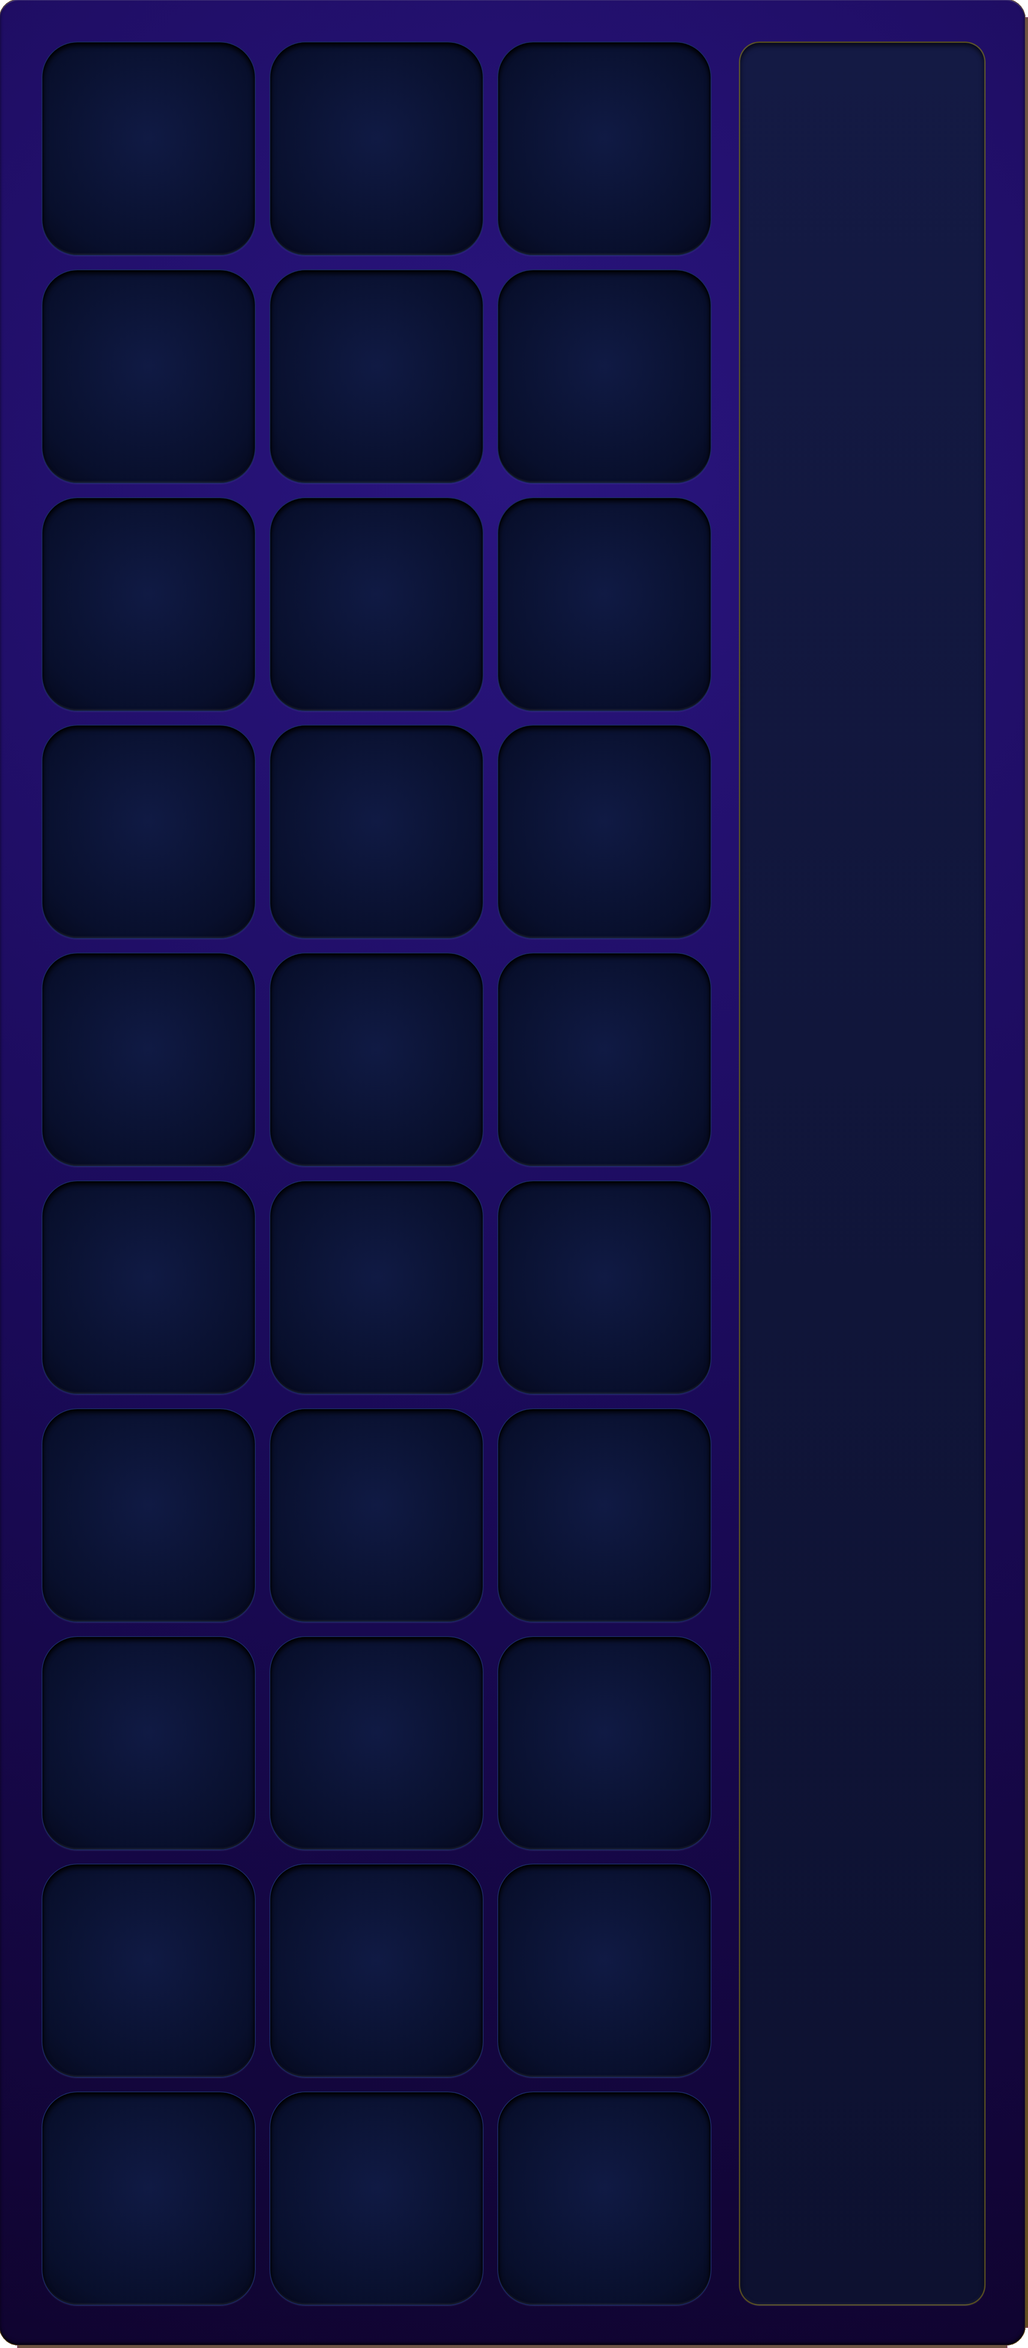
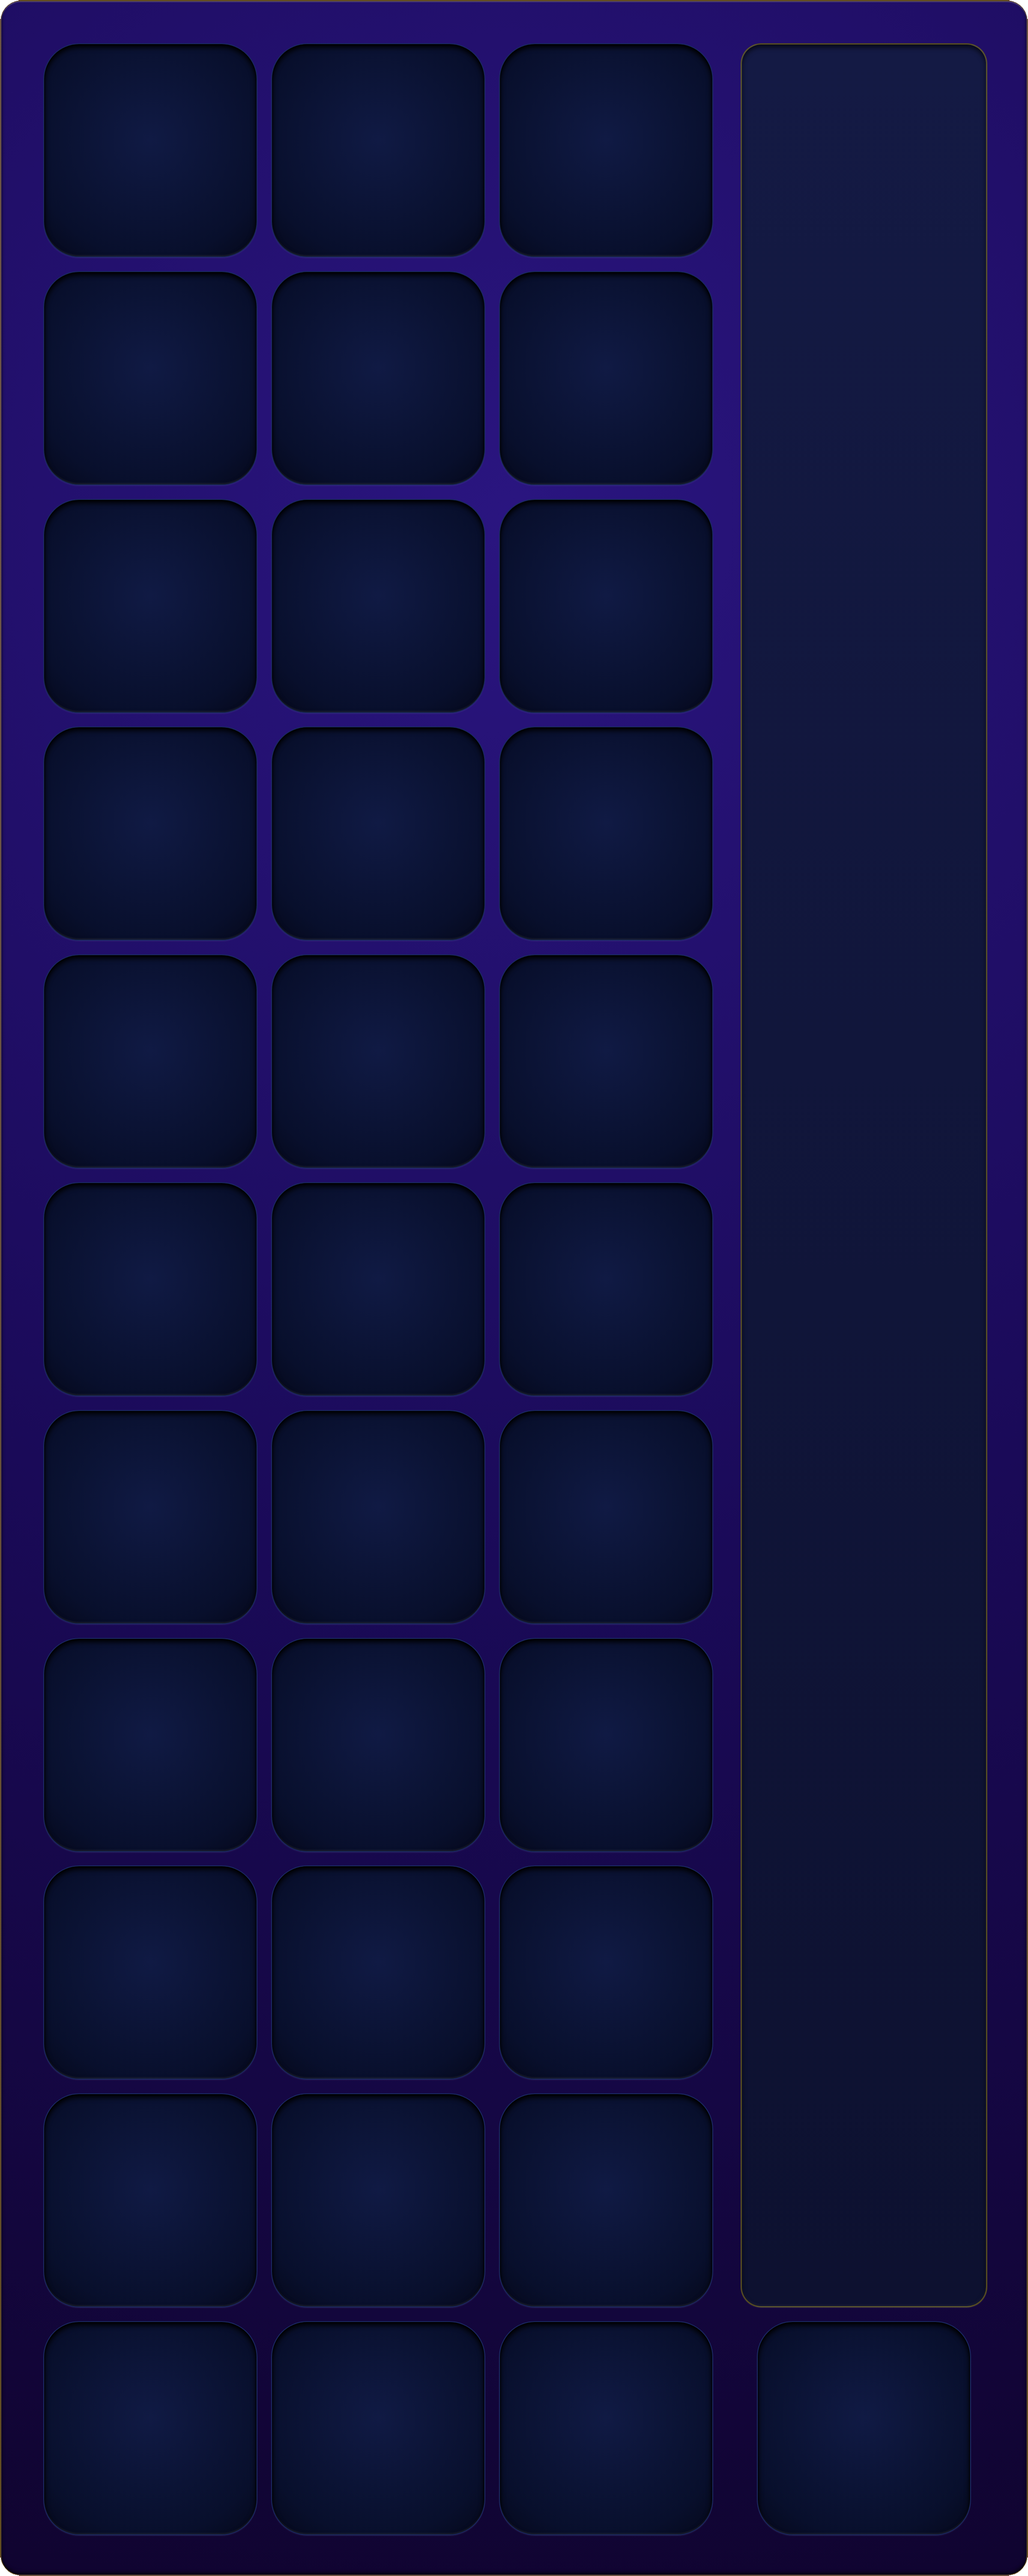
Fold the deal tray into the board's bottom row
The separate tray panel is gone; the board artwork gains an 11th row of
four dice wells — three under the guess columns plus a fourth centered
under the peg track, where the enter key sits on guess rows. TrayRow
becomes DiceRow: the four Slot.Tray cells render inside the board Box
with identical interactions, tags, and the die-covering 0.87x cell.
deal_tray.png deleted; board art is now 2400x6014 (resource 1440x3608).

Generated with [Devin](https://devin.ai)

diff --git a/shared/src/commonMain/kotlin/com/masterdice/ui/GameScreen.kt b/shared/src/commonMain/kotlin/com/masterdice/ui/GameScreen.kt
@@ -81,7 +81,6 @@ import com.masterdice.platform.SoundFx
 import com.masterdice.platform.debugToolsEnabled
 import com.masterdice.resources.Res
 import com.masterdice.resources.board_4x10
-import com.masterdice.resources.deal_tray
 import com.masterdice.resources.enter_key
 import com.masterdice.resources.pointing_hand
 import androidx.compose.ui.layout.ContentScale
@@ -91,22 +90,21 @@ import kotlin.math.roundToInt
 
 private val WellShape = RoundedCornerShape(10.dp)
 
-// board_4x10.png geometry (pixels of the 2400x5482 source artwork; the
-// bundled resource is a 0.6x downscale — identical fractions): square wells
-// on a uniform grid — 3 guess columns plus a continuous recessed peg track.
-private const val BOARD_ASPECT = 5482f / 2400f
+// board_4x10.png geometry (pixels of the 2400x6014 source artwork; the
+// bundled resource is a 0.6x downscale — identical fractions): 10 rows of
+// 3 square wells plus a continuous recessed peg track, then a bottom row
+// of 4 dice wells — the last centered under the track.
+private const val BOARD_ASPECT = 6014f / 2400f
 private const val BOARD_WELL_PX = 500f
 private val BOARD_COLS_PX = floatArrayOf(98f, 630f, 1162f)
 private const val BOARD_TRACK_CX_PX = 2014f
 private const val BOARD_ROW_TOP_PX = 98f
 private const val BOARD_ROW_PITCH_PX = 531.8f
 
-// deal_tray.png is 2400x696 — a board-width strip of four wells at the
-// grid's pitch, centered; rendered at boardW, its wells land on exactly
-// the same grid as the board's.
-private const val TRAY_ASPECT = 696f / 2400f
-private val TRAY_COLS_PX = floatArrayOf(152f, 684f, 1216f, 1748f)
-private const val TRAY_ROW_TOP_PX = 98f
+// Bottom dice row: wells under the guess columns plus one centered on the
+// track (2014 - 500/2); top at 98 + 10 pitches.
+private const val BOARD_DICE_ROW_TOP_PX = 5416f
+private const val BOARD_DICE_COL4_PX = 1764f
 
 @Composable
 fun GameScreen(
@@ -163,17 +161,17 @@ fun GameScreen(
     ) {
         val maxBoardWidth = if (maxWidth > 480.dp) 480.dp else maxWidth
         val gap = 6.dp
-        // Board and tray are fixed-aspect artworks scaled from boardW; its
-        // width is bound by whichever is tighter — the column width, or the
-        // height budget once the header and spacers are paid for.
+        // The board is a fixed-aspect artwork scaled from boardW; its width
+        // is bound by whichever is tighter — the column width, or the height
+        // budget once the header and spacers are paid for.
         val boardW = minOf(
             maxBoardWidth - 16.dp,
-            (maxHeight - 80.dp) / (BOARD_ASPECT + TRAY_ASPECT),
+            (maxHeight - 80.dp) / BOARD_ASPECT,
         ) * 0.81f
         val boardH = boardW * BOARD_ASPECT
-        // One cell = one artwork well (500px of the 2400px-wide image).
+        // One cell = one artwork well (500px of the 2400px-wide image);
+        // dice fill their wells edge to edge.
         val cell = boardW * (BOARD_WELL_PX / 2400f)
-        // Grid and tray share one size; dice fill their wells edge to edge.
         val dieSize = cell
         // 4th-column cell — sized to the enter key, centered on the peg track.
         val enterSize = dieSize * 0.9f
@@ -288,6 +286,8 @@ fun GameScreen(
                         onEmptyTap = { slot -> hintCell = slot },
                     )
                 }
+                // Bottom row: the four dealt dice, seated in artwork wells.
+                DiceRow(state, boardW, cell, dd, onIntent)
                 if (state.status != GameStatus.PLAYING) {
                     EndPanel(
                         state,
@@ -299,26 +299,6 @@ fun GameScreen(
                     )
                 }
             }
-
-            Spacer(Modifier.height(4.dp))
-//            Row(
-//                modifier = Modifier
-//                    .fillMaxWidth()
-//                    .padding(end = 4.dp),
-//                horizontalArrangement = Arrangement.End,
-//            ) {
-//                BasicText(
-//                    text = "DRAG INTO THE ROW",
-//                    style = TextStyle(
-//                        color = MasterDiceColors.Ivory.copy(alpha = 0.3f),
-//                        fontSize = 9.sp,
-//                        letterSpacing = 1.sp,
-//                    ),
-//                )
-//            }
-//            Spacer(Modifier.height(4.dp))
-
-            TrayRow(state, boardW, cell, dd, onIntent)
         }
 
         DragOverlay(dd, dieSize)
@@ -713,7 +693,7 @@ private fun HelpPanel(
             Spacer(Modifier.height(12.dp))
             RuleText("A hidden sequence of three dice is the solution. The tray holds those three plus one decoy — work out which three belong, and in what order.")
             Spacer(Modifier.height(8.dp))
-            RuleText("Drag dice from the tray into the active row — or tap a tray die to fill the first free cell. Tap or drag a placed die to return it to the tray. You have $ROWS guesses.")
+            RuleText("Drag dice from the bottom row into the active row — or tap a die to fill the first free cell. Tap or drag a placed die to return it to the bottom row. You have $ROWS guesses.")
             Spacer(Modifier.height(12.dp))
             if (showMatchIndicators) {
                 RuleLine("■", MasterDiceColors.GreenBorder, "Correct colour AND value")
@@ -1252,60 +1232,51 @@ private fun EnterCell(state: GameState, size: Dp, onIntent: (GameIntent) -> Unit
     }
 }
 
-/** Deal-tray artwork with the four tray cells overlaid on its wells. */
+/** The four dealt dice, seated in the board's bottom-row wells. */
 @Composable
-private fun TrayRow(
+private fun DiceRow(
     state: GameState,
     boardW: Dp,
     cell: Dp,
     dd: DragDropState,
     onIntent: (GameIntent) -> Unit,
 ) {
-    val trayW = boardW // the tray strip is as wide as the board
-    val colX = TRAY_COLS_PX.map { trayW * (it / 2400f) }
-    val rowTop = trayW * (TRAY_ROW_TOP_PX / 2400f)
+    val colX = (BOARD_COLS_PX + BOARD_DICE_COL4_PX).map { boardW * (it / 2400f) }
+    val rowTop = boardW * (BOARD_DICE_ROW_TOP_PX / 2400f)
     // The die art is a rounded square covering an inscribed 0.87 square;
-    // tray cells sit fully behind the die, centered on the wells.
-    val trayCell = cell * 0.87f
-    val inset = (cell - trayCell) / 2
+    // dice-row cells sit fully behind the die, centered on the wells.
+    val diceCell = cell * 0.87f
+    val inset = (cell - diceCell) / 2
 
-    Box(modifier = Modifier.size(trayW, trayW * TRAY_ASPECT)) {
-        Image(
-            painter = painterResource(Res.drawable.deal_tray),
-            contentDescription = null,
-            contentScale = ContentScale.FillBounds,
-            modifier = Modifier.matchParentSize(),
+    for (i in 0 until TRAY_SIZE) {
+        val slot = Slot.Tray(i)
+        val die = state.tray[i]
+        val draggingAway = dd.session?.from == slot
+        val highlighted = dd.session?.let { isLegalMove(state, it.from, slot) } == true
+        val canDrag = state.status == GameStatus.PLAYING && die != null && !draggingAway
+
+        CellWell(
+            slot = slot,
+            die = if (draggingAway) null else die,
+            cell = diceCell,
+            dieSize = cell,
+            dd = dd,
+            active = state.status == GameStatus.PLAYING,
+            alpha = 1f,
+            highlighted = highlighted,
+            feedback = null,
+            showMatchIndicator = true,
+            description = "Tray slot ${i + 1}: " +
+                (die?.let { "${colourName(it.colour)} ${it.value}" } ?: "empty"),
+            draggable = canDrag,
+            state = state,
+            onIntent = onIntent,
+            onTap = { SoundFx.tap(); onIntent(GameIntent.TapMove(slot)) },
+            modifier = Modifier.absoluteOffset(
+                x = colX[i] + inset,
+                y = rowTop + inset,
+            ),
         )
-        for (i in 0 until TRAY_SIZE) {
-            val slot = Slot.Tray(i)
-            val die = state.tray[i]
-            val draggingAway = dd.session?.from == slot
-            val highlighted = dd.session?.let { isLegalMove(state, it.from, slot) } == true
-            val canDrag = state.status == GameStatus.PLAYING && die != null && !draggingAway
-
-            CellWell(
-                slot = slot,
-                die = if (draggingAway) null else die,
-                cell = trayCell,
-                dieSize = cell,
-                dd = dd,
-                active = state.status == GameStatus.PLAYING,
-                alpha = 1f,
-                highlighted = highlighted,
-                feedback = null,
-                showMatchIndicator = true,
-                description = "Tray slot ${i + 1}: " +
-                    (die?.let { "${colourName(it.colour)} ${it.value}" } ?: "empty"),
-                draggable = canDrag,
-                state = state,
-                onIntent = onIntent,
-                onTap = { SoundFx.tap(); onIntent(GameIntent.TapMove(slot)) },
-                modifier = Modifier.absoluteOffset(
-                    x = colX[i] + inset,
-                    y = rowTop + inset,
-                ),
-            )
-        }
     }
 }
 
@@ -1507,7 +1478,7 @@ private fun HintBubble(anchor: Offset, aboveBy: Dp, onDismiss: () -> Unit) {
     Box(
         modifier = Modifier
             .testTag("cellHint")
-            .semantics { contentDescription = "Drag or tap a tray die to fill this cell" }
+            .semantics { contentDescription = "Drag or tap a die from the bottom row to fill this cell" }
             .layout { measurable, constraints ->
                 val placeable = measurable.measure(constraints)
                 layout(placeable.width, placeable.height) {
@@ -1528,7 +1499,7 @@ private fun HintBubble(anchor: Offset, aboveBy: Dp, onDismiss: () -> Unit) {
             .padding(horizontal = 10.dp, vertical = 6.dp),
     ) {
         BasicText(
-            text = "Drag or tap a tray die to fill this cell",
+            text = "Drag or tap a die from the bottom row to fill this cell",
             style = TextStyle(
                 color = MasterDiceColors.Ivory,
                 fontSize = 11.sp,
@@ -1537,8 +1508,8 @@ private fun HintBubble(anchor: Offset, aboveBy: Dp, onDismiss: () -> Unit) {
     }
 }
 
-/** Pointing hand bobbing beside the deal tray, shown while the empty-cell
- * hint is up. Decorative — the message lives on the bubble. */
+/** Pointing hand bobbing beside the bottom dice row, shown while the
+ * empty-cell hint is up. Decorative — the message lives on the bubble. */
 @Composable
 private fun TrayPointer(dd: DragDropState, visible: Boolean) {
     val left = dd.boundsOf(Slot.Tray(0))
